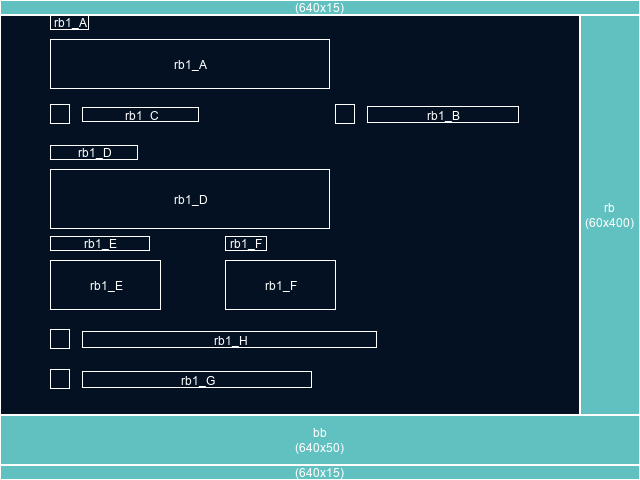
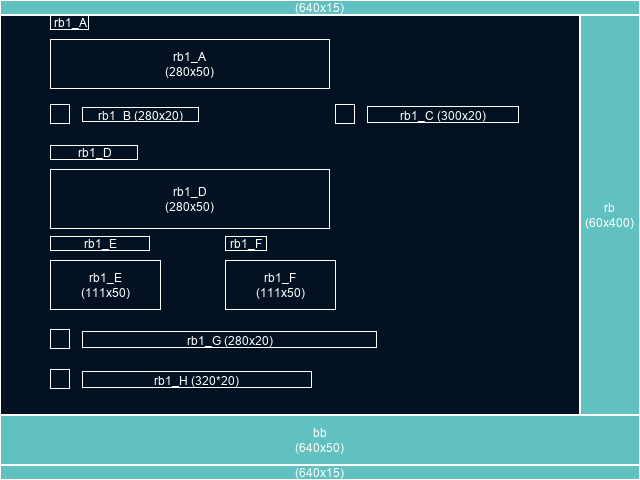
add function for page_rb5 settings page

diff --git a/src/layouts/page_rb_layout.py b/src/layouts/page_rb_layout.py
@@ -16,18 +16,37 @@ def page_rb1():
                                 box.BoxDrawer(580, 15, 60, 400, "rb\n(60x400)", True),  # zone rb
                                 box.BoxDrawer(0, 15, 580, 400, "")])                    # zone page_rb
     page_rb1_layout_image.draw([DMItext(50, 15, "Pupitre", 12, "rb1_A"),
-                                DMIcombobox(50, 39, 280, 50, "rb1_A"),
-                                DMIcheckbutton(335, 104, 20, "Connecté par une caméra ?", 12, "rb1_B"),
-                                DMIcheckbutton(50, 104, 20, "Connecté à Renard ?", 12, "rb1_C"),
+                                DMIcombobox(50, 39, 280, 50, "rb1_A\n(280x50)"),
+                                DMIcheckbutton(50, 104, 20, "Connecté à Renard ?", 12, "rb1_B (280x20)"),
+                                DMIcheckbutton(335, 104, 20, "Connecté par une caméra ?", 12, "rb1_C (300x20)"),
                                 DMItext(50, 145, "Interface pupitre", 12, "rb1_D"),
-                                DMIcombobox(50, 169, 280, 60, "rb1_D"),
-                                DMItext(225, 236, "Langue", 12, "rb1_F"),
-                                DMIcombobox(225, 260, 111, 50, "rb1_F"),
+                                DMIcombobox(50, 169, 280, 60, "rb1_D\n(280x50)"),
                                 DMItext(50, 236, "Niveau de registre", 12, "rb1_E"),
-                                DMIbutton(50, 260, 111, 50, "rb1_E"),
-                                DMIcheckbutton(50, 369, 20, "Affichage en direct des données du train ?", 12, "rb1_G"),
-                                DMIcheckbutton(50, 329, 20, "Activation du PCC (Poste de Commande Centralisé) ?", 12, "rb1_H")])
+                                DMIbutton(50, 260, 111, 50, "rb1_E\n(111x50)"),
+                                DMItext(225, 236, "Langue", 12, "rb1_F"),
+                                DMIcombobox(225, 260, 111, 50, "rb1_F\n(111x50)"),
+                                DMIcheckbutton(50, 369, 20, "Affichage en direct des données du train ?", 12, "rb1_H (320*20)"),
+                                DMIcheckbutton(50, 329, 20, "Activation du PCC (Poste de Commande Centralisé) ?", 12, "rb1_G (280x20)")])
     page_rb1_layout_image.save()
 
 
+def page_rb5():
+    page_rb5_layout_image = image.ImageDrawer("page_rb5_layout.png")
+    page_rb5_layout_image.draw([box.BoxDrawer(0, 0, 640, 480, ""),                      # contour de l'application
+                                box.BoxDrawer(0, 0, 640, 15, "(640x15)", True),         # bande vide supérieure
+                                box.BoxDrawer(0, 465, 640, 15, "(640x15)", True),       # bande vide inférieure
+                                box.BoxDrawer(0, 415, 640, 50, "bb\n(640x50)", True),   # zone bb
+                                box.BoxDrawer(580, 15, 60, 400, "rb\n(60x400)", True),  # zone rb
+                                box.BoxDrawer(0, 15, 580, 400, "")])                    # zone page_rb
+    page_rb5_layout_image.draw([DMIbutton(54, 15, 46, 40, "rb5_A\n(46x40)"),
+                                DMIbutton(100, 15, 380, 40, "rb5_B\n(380x40)"),
+                                DMIbutton(480, 15, 46, 40, "rb5_C\n(48x40)"),
+                                DMIbutton(54, 55, 472, 76, "rb5_D.1\n(472x76)"),
+                                DMIbutton(54, 131, 472, 76, "rb5_D.2\n(472x76)"),
+                                DMIbutton(54, 207, 472, 76, "rb5_D.3\n(472x76)"),
+                                DMIbutton(54, 283, 472, 76, "rb5_D.4\n(472x76)"),
+                                DMIbutton(434, 359, 46, 40, "rb5_E\n(46x40)"),
+                                DMIbutton(480, 359, 46, 40, "rb5_F\n(46x40)"),
+                                DMIcheckbutton(15, 379, 20, "Eteindre les écrans qui ne sont pas utilisés ?)", 12, "rb5_G (400x20)")])
+    page_rb5_layout_image.save()
 

diff --git a/main.py b/main.py
@@ -6,7 +6,8 @@ def main():
     # gl.general_layout()
     # gl.detailed_layout()
 
-    rbl.page_rb1()
+    # rbl.page_rb1()
+    rbl.page_rb5()
 
 if __name__ == "__main__":
     main()
